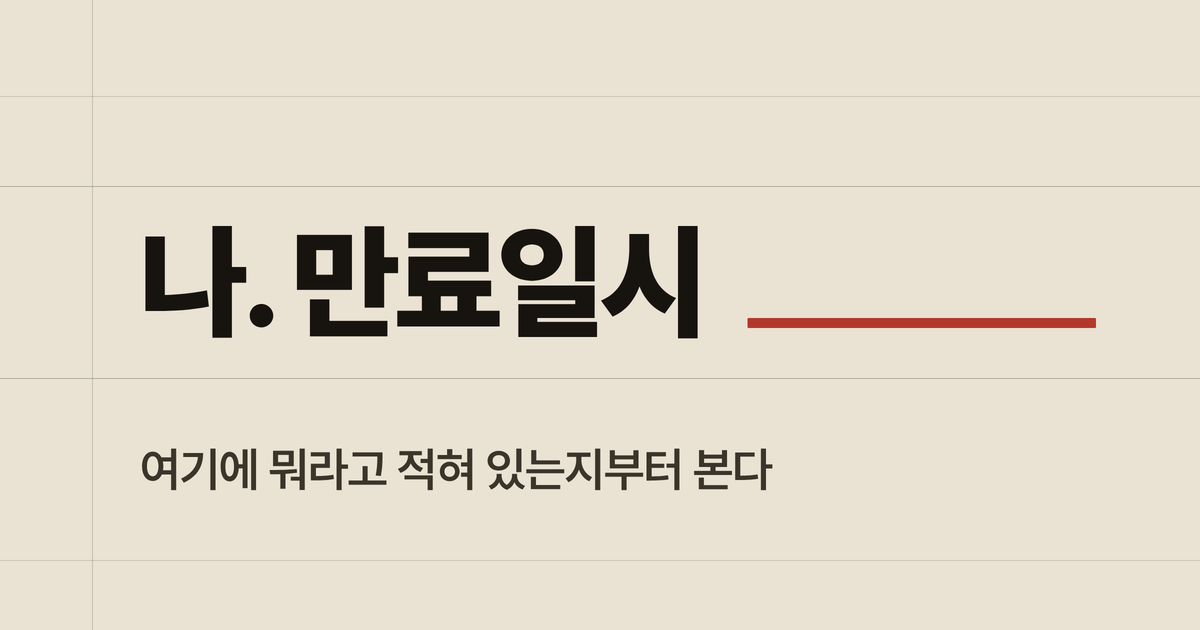
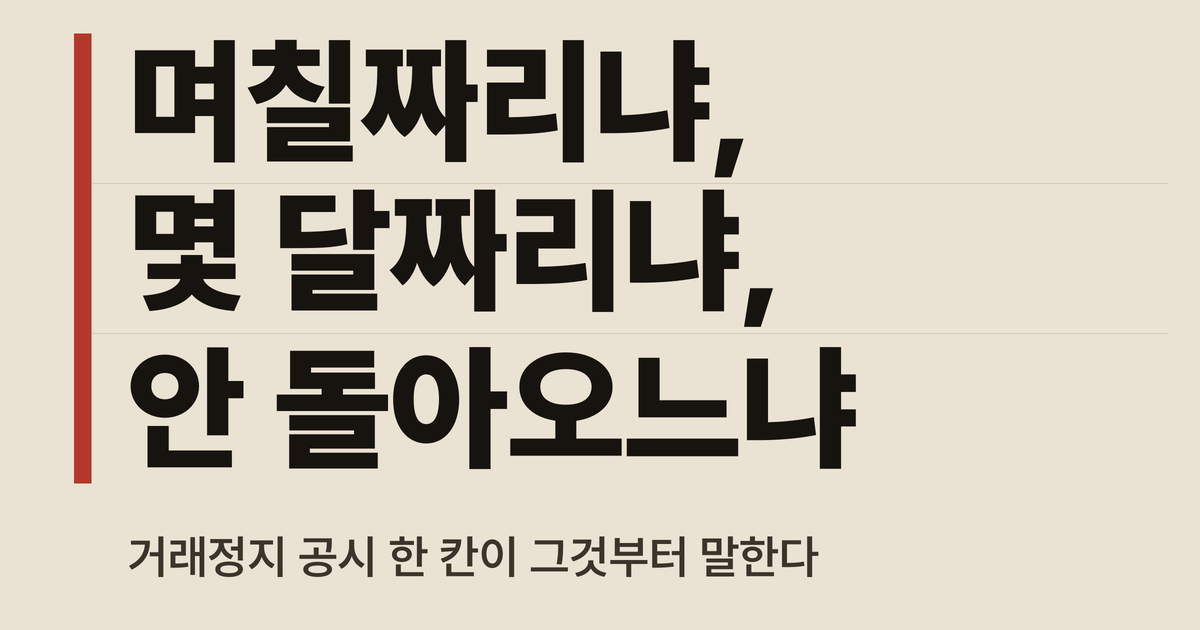
Second thumbnail: three lines for three outcomes
The first card failed because two words sat side by side on one line and
closed up. So the copy breaks across three lines, one per outcome, which
removes the place where words could run together at all — a line break
is a layout fact rather than a few pixels, so it survives any amount of
shrinking, which a period does not.

The longest line is seven characters, so height rather than width sets
the limit and the type ends up larger than before despite three times
the copy. Read back at thumbnail size by magnifying the remaining pixels
rather than guessing: all three lines are legible at the smallest size
tested, and the gaps between words measure five pixels where the failed
card had one.

The red bar changes job from pointing at an empty field, which no longer
exists in the copy, to bracketing the three lines as one set. It does
not single out any of them, since choosing is what the filing does.

A new check goes into the production notes: not whether the text is
visible, but what it says when the letters run together. That is the
question the first round never asked.

Claude-Session: https://claude.ai/code/session_01Q2phF8jfFGCqbh6nMM2kyu

Changed region(s): [[0.0617, 0.0302, 0.925, 0.7841], [0.0925, 0.8444, 0.6783, 0.9349]]

diff --git a/작업/20260919_거래정지/06_지면.md b/작업/20260919_거래정지/06_지면.md
@@ -129,3 +129,238 @@
 - **본문에 없는 것을 그리지 않았다.** 날짜·숫자·재개일을 이미지가 약속하지 않는다
 - **메타 설명·대체 텍스트(alt)를 쓰지 않았다.** 그것은 본문을 줄여 쓰는 일이고 ⑦에서 정할 자리다
 - **공정을 세우지 않았다**(§12). 대안 문구는 반려 사유가 아니라 **선택의 근거**로 적었다. 되돌린 것 0건
+
+---
+---
+
+# ⑥c-2 재제작 — 회장 반려 뒤 다시 세운 판
+
+「지면」 · 2026-09-20 KST · **위 §1~§7은 반려된 1판의 기록이다. 한 줄도 안 지웠다.**
+대상 문구: `06_제목.md` **§14-5 ㉮**(「포착」 재작성분) · 대조한 본문: `05_원고.md` **1~374행**
+[수취] 서명은 `00_공정일지.md` 맨 끝 — **받음**
+산출: `작업/20260919_거래정지/06_썸네일.png` (1200×630, **덮어썼다**)
+
+---
+
+## 8. 무엇이 반려됐고, 내 책임이 어디까지인가
+
+회장 원문 — ***"나 만류일 씨가 썸네일이야? 뭐가 이렇게 엉성해?"***
+
+1판 대문은 `나. 만료일시`(124px Black)였다. **`나`와 `만료일시` 사이의 마침표가 제 몫을 못 했고, 한국어를 읽는 눈이 그 일곱 자를 「나, 만류일」이라는 자기소개로 끊었다.** 「포착」이 `06_제목.md` §14-1에 자기 잘못으로 적었다 — *"「지면」은 내가 준 글자를 한 자도 안 고치고 세웠다."*
+
+**그 말이 맞다. 그리고 그것이 내 면책은 아니다.**
+
+문구를 고칠 권한이 나에게 없는 것은 맞다(`운영/02_조직도.md`). **그런데 「이 문구로는 썸네일이 안 나온다」고 되돌릴 권한은 나에게 있었다.** 나는 §6에서 손톱 크기 검사를 했고, *"140px — `나. 만료일시` 읽힌다"*까지 적었다. **거기서 멈춘 것이 내 잘못이다.**
+
+> **내가 검사한 것은 「글자가 보이는가」였다. 검사했어야 하는 것은 「무슨 말로 읽히는가」였다.**
+
+보이는 것과 읽히는 것은 다르다. 1판의 일곱 자는 **끝까지 또렷하게 보였고, 또렷하게 다른 말로 읽혔다.** 판독 검사에 **「붙여 읽으면 무엇이 되는가」가 없었다** — 그 칸을 이번에 §12로 새로 넣었다.
+
+**받침 하나 더.** 1판을 만들 때 나는 대문 7자가 짧은 것을 **장점**으로만 봤다(§2 — *"7자뿐이라 크게 세울 수 있다"*). **짧으면 옆 글자에 붙을 기회도 많아진다**는 것을 안 봤다. 글자 수는 판독의 근거가 되지만 **혼자서는 근거가 못 된다.**
+
+---
+
+## 9. 받은 문구와 내가 정한 것 — 경계
+
+**「포착」이 준 것**(§14-7). 글자는 한 자도 안 고쳤다.
+
+```
+[대문]  며칠짜리냐, 몇 달짜리냐, 안 돌아오느냐
+[받침]  거래정지 공시 한 칸이 그것부터 말한다
+```
+
+**「포착」이 명시적으로 나에게 넘긴 것 둘**, 그리고 내가 정한 것.
+
+| 넘어온 결정 | 내 결정 | 근거 |
+|---|---|---|
+| **개행 위치** — *"위 대문은 뜻 덩어리 표시이지 개행 지시가 아니다"* | **세 줄. 갈래 하나에 한 줄씩** | §10 |
+| **붉은 빈 기입란을 살릴지 바꿀지 뺄지** — *"새 문구에는 가리킬 기입란이 없다"* | **뺐다. 같은 붉은색을 「세 줄을 묶는 괄호」로 바꿨다** | §11 |
+
+**글자는 22자(대문)+19자(받침).** 1판 대문 7자의 3배다. 마침표·쉼표·띄어쓰기를 포함해 **받은 글자 그대로**이고, 내가 한 것은 **원래 있던 쉼표 뒤 공백 두 곳을 줄바꿈으로 바꾼 것**뿐이다. 글자를 빼지도 더하지도 않았다.
+
+**쉼표를 안 지웠다.** 줄 끝에 쉼표가 남는 것이 어색해 보일 수 있지만 **그것을 지우는 것은 문구를 고치는 것**이다. 줄 끝 쉼표는 「아직 안 끝났다」를 지고 가서 세 줄을 한 묶음으로 만든다. 지울 이유도 없었다.
+
+---
+
+## 10. 왜 세 줄인가 — 이것이 반려의 직접적인 대응이다
+
+「포착」은 §14-6에서 이렇게 예상했다 — *"대문 두 줄이 띠로 보이되 줄 길이가 달라(11자/6자) 계단 모양이 남는다."* **두 줄이면 `며칠짜리냐, 몇 달짜리냐,`가 한 줄에 11자로 붙는다.**
+
+**나는 세 줄로 갈랐다. 이유 셋.**
+
+**① 반려의 원인이 「가로로 붙는 것」이었다.** `나`와 `만료일시`가 한 줄에 나란히 있어서 붙어 읽혔다. **한 줄에 갈래 둘을 얹으면 그 구조가 그대로 돌아온다** — `몇 달짜리냐`가 `며칠짜리냐` 뒤에 붙어 읽힐 자리가 생긴다. **줄을 나누면 가로 인접 자체가 없어진다.** 쉼표가 지고 있던 구분 일을 **줄바꿈이 대신 진다.** 점 하나에 맡겼던 일을 줄 하나에 맡긴 것이고, 줄은 아무리 작아져도 안 사라진다.
+
+**② 한 줄에 최대 7자면 글자를 더 크게 세운다.** 11자 줄에 맞추면 폭이 먼저 차서 글자가 작아진다. 세 줄로 가르면 **가장 긴 줄이 `안 돌아오느냐` 7자**이고, 폭이 아니라 **높이가 한계**가 된다. 실측: 대문 **135px**(1판 124px보다 **11px 크다**). **문구가 3배 길어졌는데 글자는 더 커졌다.**
+
+**③ 세 줄이 곧 세 갈래다.** 제목이 *"세 갈래로 갈랐다"*고 말한다. 썸네일에 덩어리가 **정확히 세 개** 쌓여 있으면, 글자를 다 못 읽어도 **셋이라는 것이 형태로 먼저 간다.** 「포착」이 기대한 계단은 두 줄로는 안 나오고 세 줄로 나온다. 오른쪽 끝도 5.3 → 5.6 → 6.3em으로 조금씩 길어져 **아래로 갈수록 무거워진다** — 며칠 → 몇 달 → 안 돌아옴이라는 순서 그대로다.
+
+**받침을 위로 올리지 않았다.** 위에 얹으면 주제어 「거래정지」가 먼저 오니 낫지 않겠나 검토했는데, **받침의 「그것」이 대문을 받는 말**이다. 위에 놓으면 가리킬 것이 없는 지시어가 된다 — **1판에서 `나.`가 가리킬 문서 없이 떠 있던 것과 같은 사고**다. 순서는 「포착」이 준 그대로 둔다.
+
+---
+
+## 11. 붉은 기입란을 어떻게 처리했나
+
+「포착」이 넘긴 그대로 **뺐다.** 1판의 붉은 가로 막대는 **「만료일시 칸이 비어 있다」를 가리키는 도형**이었고, 새 문구에는 만료일시 칸이 없다. 남겨두면 **가리킬 것이 없는 장식**이 되고, 그건 내 금지 목록 그대로다(*"읽을 수 없는 장식을 넣지 않는다"*).
+
+**같은 붉은색(#B3382C)은 살렸다. 다만 일을 바꿨다.**
+
+| | 1판 | 2판 |
+|---|---|---|
+| 모양 | 가로 막대, 글자 오른쪽 | **세로 막대, 세 줄 왼쪽 (폭 17px · 높이 450px)** |
+| 하는 일 | 「여기에 적힌다」 — **빈칸을 가리킨다** | 「이 셋이 한 묶음이다」 — **괄호로 묶는다** |
+| 세 줄 중 하나를 고르나 | — | **안 고른다** |
+
+**하나를 골라 표시하지 않은 것이 이 도형의 핵심이다.** 독자가 셋 중 어디인지는 내가 모르고, 본문도 미리 안 정해준다. 붉은 표시를 한 줄에만 찍으면 **이미지가 답을 정해버리고**, 그건 본문에 없는 것을 약속하는 것이다(§6 이탈률). 그래서 **셋 전부를 같은 높이로 묶기만 한다.** 받침이 *"공시 한 칸이 그것부터 말한다"*고 하니, **고르는 일은 공시가 한다** — 이미지는 고를 것이 셋이라는 것까지만 말한다.
+
+**세로 괘선 한 줄로 셋을 갈랐다.** 1판의 전폭 괘선 4줄(끝없는 서식)을 **세 행짜리 얕은 괘선 2줄**로 바꿨다. 농도는 12% — 원본 크기에서는 「서식의 행」이 보이고, 손톱 크기에서는 사라져서 글자와 안 싸운다. **작아지면 없어지는 요소는 작아질 때 방해도 안 한다.**
+
+---
+
+## 12. ★ 크기별 판독 검사 — 「보이는가」가 아니라 「뭐라고 읽히는가」
+
+**1판이 빠뜨린 칸이 이것이다.** 실물을 140·200·300·420px로 줄여 열었고, 140·200px는 **실제 남은 픽셀을 8배·5배로 확대(nearest)해 한 자씩** 봤다. 추정이 아니다.
+
+### 12-1. 각 크기에서 실제로 뭐라고 읽히는가
+
+| 크기 | 대문(135px → 환산) | **읽히는 말 — 그대로 옮긴다** | 받침(46px → 환산) |
+|---|---|---|---|
+| **140px** | **15.8px** | **`며칠짜리냐,` / `몇 달짜리냐,` / `안 돌아오느냐` — 세 줄 다 읽힌다.** 쉼표 둘 다 점으로 남아 있고 `몇`·`달` 사이, `안`·`돌` 사이 공백이 배경으로 뚫려 있다 | **5.4px — 못 읽는다.** 회색 띠 하나. 「글자가 한 줄 더 있다」까지만 전달된다 |
+| **200px** | **22.5px** | 세 줄 또렷. **글자 경계가 전부 떨어진다** | **7.7px — 덩어리로만.** 「거래정지」 네 자가 어렴풋하고 나머지는 못 읽는다 |
+| **300px** | **33.8px** | 또렷 | **11.5px — 읽힌다.** `거래정지 공시 한 칸이 그것부터 말한다` 끝까지 |
+| **420px** | **47.3px** | 또렷. 괘선 2줄이 이때부터 보이기 시작한다 | **16.1px — 편하게 읽힌다** |
+
+**흰 바탕·검은 바탕에 나란히 놓고도 봤다.** 종이색 #EAE2D2가 흰 검색 결과 배경에서 카드로 떨어지고, 어두운 바탕에서는 그대로 떠오른다. 붉은 세로 막대는 **140px에서도 붉은 획으로 남는다**(2px) — 안 보이는 장식이 아니다.
+
+**「포착」의 예상과 대조**(§14-6). *"200px부터 대문 또렷. 받침은 140px에서 뭉갠다"* — **받침은 맞았다. 대문은 내 쪽이 낫다: 140px에서 이미 또렷하다.** 두 줄 11자가 아니라 **세 줄 7자로 세웠기 때문**이다. 「포착」이 대비해둔 2순위 `호가창이 회색이다`(8자)는 **쓸 필요가 없다. 되돌리지 않는다.**
+
+### 12-2. 붙여 읽으면 다른 말이 되는가 — **안 된다**
+
+**이것이 반려의 직접 원인이라 실측으로 답한다.** 140px에서 각 줄의 「완전히 빈 세로 픽셀 열」을 셌다(붉은 막대와 글자 사이 간격은 뺐다).
+
+| 줄 | 140px에서 남은 낱말 사이 빈 열 | 붙어버리면 무슨 말이 되나 |
+|---|---|---|
+| `며칠짜리냐,` | 쉼표 앞 **2px**, 자간 1px씩 | 쉼표가 사라져도 `며칠짜리냐` — **뜻 그대로** |
+| `몇 달짜리냐,` | `몇`↔`달` **5px** | 붙으면 `몇달짜리냐` — **뜻 그대로.** 사람 이름 꼴 아님 |
+| `안 돌아오느냐` | `안`↔`돌` **3px** | 붙으면 `안돌아오느냐` — **뜻 그대로.** `돌아오느냐`가 누가 봐도 서술어라 이름으로 안 끊긴다 |
+
+**대조군 — 반려된 1판을 같은 조건으로 다시 재서 비교했다**(측정용으로만 그렸고 저장하지 않았다).
+
+```
+반려판  '나. 만료일시' @140px  →  '나'와 마침표 사이 빈 열 1px
+2판     '몇 달짜리냐,' @140px  →  '몇'과 '달' 사이 빈 열 5px   (5배)
+```
+
+**1px과 5px의 차이다.** 1판은 구분 일을 **마침표 하나(자획보다 작은 점)**에 맡겼고 그 점은 1px 틈 안에서 사라졌다. 2판은 같은 일을 **온전한 띄어쓰기(0.3em)와 줄바꿈**에 맡겼다. **줄바꿈은 픽셀이 아니라 배치라서 몇 배로 줄여도 안 없어진다.**
+
+**그리고 구조적으로 더 중요한 것.** 세 갈래가 **가로로 나란히 선 자리가 한 곳도 없다.** 1판 사고는 `나`와 `만료일시`가 한 줄에 있어서 일어났다. **줄이 다르면 붙어 읽을 수가 없다.** 낱말 하나하나가 붙는 경우까지 위에서 다 확인했으므로, **어느 조합으로 붙여 읽어도 다른 말이 안 나온다.**
+
+**항목 번호·기호 0개.** `가.`·`나.`·`3.` 같은 떠 있는 번호를 이미지에 한 개도 안 넣었다(「포착」 조건 ㉡). 이미지 안의 문장부호는 **쉼표 둘**뿐이고, 둘 다 **줄 끝**에 있어 뒷글자와 붙을 상대가 없다.
+
+### 12-3. 글자 깨짐
+
+**깨진 글자 0자.** 원본 크기로 열어 대문 22자·받침 19자를 한 자씩 대조했다. 두부(`□`)·자모 분리 없음. 쉼표 2개 모두 정상.
+
+---
+
+## 13. 22장 틀 — 네 요소를 각각 어떻게 피했나 (2판 기준으로 다시 적는다)
+
+`운영/06_기존글대장.md` 소진 목록: **남색 배경 + 노란 배지 + 흰 2줄 제목 + 노란 키워드**, 22장 전부 같은 틀.
+
+| 22장의 요소 | 2판 | 어떻게 피했나 |
+|---|---|---|
+| **① 남색 배경** | **종이색 #EAE2D2** | 남색을 다른 진한 색으로 바꾼 것이 아니라 **명암을 뒤집었다.** 22장은 어두운 바탕 + 밝은 글자, 이건 **밝은 바탕 + 먹빛 글자(#17130F)**다. 파랑 계열은 바탕·괘선·글자·막대 **어디에도 한 픽셀도 없다** |
+| **② 노란 배지** | **배지가 없다** | 모서리 알약·라벨·태그·리본을 **하나도 안 그렸다.** 「포착」이 배지용 단어를 안 뽑았고(§14-7) 나도 안 만들었다. 이미지 안 도형은 **붉은 세로 막대 1개 + 얕은 괘선 2줄**이 전부다 |
+| **③ 흰 2줄 제목** | **먹빛 · 크기가 다른 네 줄** | 색이 흰색이 아니다(#17130F / #3B342A). **줄 수가 2가 아니라 4**이고(대문 3 + 받침 1), 그 넷이 같은 급도 아니다 — **135px와 46px, 2.9배 차이.** 22장은 같은 크기 두 줄을 **가운데 몰아 쌓았고**, 이건 **왼쪽 한 선에 전부 물려 왼쪽으로 쏠려 있다** |
+| **④ 노란 키워드 강조** | **강조한 낱말이 0개** | 네 줄 전부 단색이다. **어느 글자에도 색을 안 넣었다.** 유일한 색(붉은 막대)은 **글자에 한 픽셀도 안 닿고**, 낱말이 아니라 **세 줄 묶음 전체**를 가리킨다. 그리고 그 색은 노랑이 아니라 벽돌빛이다 |
+
+**네 요소가 각각 없다.** 하나를 빼고 셋을 남기지 않았다. **1판에서 지킨 선을 2판도 그대로 지켰고, ③은 오히려 더 멀어졌다**(2줄 → 4줄, 2.6배 → 2.9배).
+
+---
+
+## 14. 직전 3편과 무엇이 다른가
+
+`운영/06_기존글대장.md` 발행일 역순 **직전 3편은 전부 9.18**이고, 셋 다 22장 틀이다.
+
+| 직전 | 글 | 그 썸네일 | 2판 |
+|---|---|---|---|
+| 1 | #22 유상증자 공시 | 남색 바탕 · 노란 배지 · 흰 2줄 · 노란 키워드 | **종이 바탕 · 배지 0 · 먹빛 4줄 · 색 강조 0** |
+| 2 | #20 환율과 내 지갑 | 같음 | 같음 |
+| 3 | H 상황별 안내(허브) | 같음 | 같음 |
+
+규칙이 짚은 세 가지를 따로 댄다(*배경 처리·글자 배치·색 계열이 겹치면 안 된다*).
+
+- **배경 처리** — 직전 3편은 **평평한 단색 남색 판**이다. 2판은 **얕은 괘선이 지나가는 종이면**이다. 바탕에 구조가 있다
+- **글자 배치** — 직전 3편은 화면 **정중앙에 두 줄을 쌓는다**. 2판은 **왼쪽 한 선에 네 줄을 전부 물리고 오른쪽 4할을 비운다.** 무게가 왼쪽 아래로 쏠려 있다
+- **색 계열** — 남청 + 노랑(보색 대비)에서 **웜 그레이 종이 + 벽돌빛 한 줄**로 갔다. 계열이 안 겹친다
+
+**22장 전체와도 다시 대조했다. 종이색 바탕을 쓴 썸네일이 한 장도 없다.**
+
+### 그리고 1판과 무엇이 다른가 — 되돌리는 김에 판도 갈았다
+
+반려된 것은 문구였고 「포착」은 판을 *"나쁘지 않았다"*고 했다. **그래도 판을 그대로 쓰지 않았다.** 문구가 「서식의 한 칸」에서 「세 갈래 질문」으로 바뀌었으면 **판이 하는 말도 바뀌어야 한다.**
+
+| | 1판(반려) | 2판 |
+|---|---|---|
+| 구조 | **전폭 괘선 4줄 + 세로 괘선 1줄** — 끝없는 서식 | **얕은 괘선 2줄로 가른 세 행** — 셋짜리 목록 |
+| 대문 | 1줄 7자 · 124px | **3줄 각 5~7자 · 135px** |
+| 줄 수 | 2 | **4** |
+| 붉은색 | 가로 막대 — **빈칸을 가리킨다** | 세로 막대 — **세 줄을 묶는다** |
+| 강조 방식 | 괘선 농도 차(가운데 행만 진하게) | **줄 수와 크기 차.** 농도 강조 버렸다 |
+
+**바꾸지 않은 것: 종이색·먹빛·왼쪽 정렬·벽돌빛 한 점.** 22장에서 멀어지게 해준 것이 그 넷이고, 반려 사유가 아니었다. **고칠 이유가 없는 것까지 고치면 왜 고쳤는지를 못 적는다.**
+
+---
+
+## 15. 무엇으로 만들었나
+
+| | |
+|---|---|
+| **크기** | **1200×630** (티스토리 본문·오픈그래프·검색 결과 공용). **2400×1260으로 그린 뒤 Lanczos로 줄여** 글자 가장자리를 살렸다. **82KB** |
+| **도구** | **Pillow 단독.** 1판은 Chromium 헤드리스로 떴는데 2판은 도형이 3개뿐이라 HTML을 거칠 이유가 없었다. **`playwright install` 실행 안 했다** |
+| **폰트** | **Pretendard 1.3.9** — 대문 Black 135px · 받침 SemiBold 46px. 지난번 받아둔 것을 그대로 썼다(새로 안 받았다) |
+| **폰트 라이선스** | **SIL Open Font License 1.1** (`package.json` → `"license": "OFL-1.1"`). 배포본 README — *"글꼴 단독 판매를 제외한 모든 상업적 행위 및 수정, 재배포가 가능합니다."* **수익형 블로그 이미지에 넣어도 되는 조건이고, 임베딩 제한 조항이 없다** |
+| **가져온 이미지** | **없다.** 화면에 있는 것은 **사각형 3개(붉은 막대 1 + 괘선 2)와 글자 네 줄**이 전부이고 전부 내가 그렸다. 사진·아이콘·스크린샷·남의 화면 캡처 **0건**(`운영/03_운영규칙.md` §6) |
+
+**색 실측 — 명도 차.** 종이 #EAE2D2 / 먹 #17130F / 받침 #3B342A. 대문은 바탕과 거의 최대 대비이고, 받침도 손톱 크기에서만 뭉갤 뿐 300px 이상에서 편하게 읽힌다.
+
+---
+
+## 16. 본문과 대조 — 이미지가 약속하는 것
+
+**대문 세 덩어리는 `05_원고.md` 7행·25행에 그대로 있다** — *"다음 달 12일 / 1년을 넘게 / 돌아오지 않는다"*(7행), *"며칠짜리·몇 달짜리·안 돌아오는 것 셋 중 하나"*(25행).
+**받침의 「공시 한 칸」은 44행이다** — *"읽어야 할 곳은 「3. 정지기간」의 「나. 만료일시」 한 칸이다."*
+
+**이미지가 날짜를 약속하지 않는다.** 숫자가 한 자도 없고, 「언제 풀린다」는 말이 없다. 약속하는 것은 **「셋 중 어느 쪽인지는 갈라진다」**뿐이고, 그것이 본문 25행의 주장 그대로다. **187건짜리 둘째 갈래 독자**(끝까지 날짜가 없는 사람)가 눌러도 이미지가 먼저 한 말과 본문이 어긋나지 않는다.
+
+**금지어 0건.** `운영/03_운영규칙.md` §5 네 묶음(시간 핑계 · 회피 `~할 수도 있습니다` · `~로 알려져 있습니다`/`~하시기 바랍니다` · 3인칭 개시·가르치는 어조) 전부 대조했다. 이미지 안 글자 41자에 해당 없음. **물음표 문자 0개**(소진 목록의 물음표 종결 회피) — `~냐`는 독자에게 던지는 질문이 아니라 **선택지 나열**이다.
+
+---
+
+## 17. 거부권을 쓰는가 — **안 쓴다**
+
+「포착」이 대비해둔 2순위(`호가창이 회색이다`, 8자)는 *"「지면」이 ㉮ 대문을 세워보고 140px에서 뭉갠다고 판정하면"* 쓰는 안이었다.
+
+**세워봤고, 140px에서 세 줄 다 읽힌다**(§12-1). **뭉개지 않는다. 되돌리지 않는다.**
+
+**되돌릴 뻔한 자리도 적어둔다.** 「포착」이 적은 두 줄 배치(11자/6자)를 그대로 따랐으면 폭이 먼저 차서 글자가 110px대로 내려가고, 140px에서 대문이 띠가 됐을 것이다. **그 경우엔 되돌렸어야 했다.** 되돌리지 않은 것은 문구가 좋아서가 아니라 **개행을 내가 정할 수 있었기 때문**이다 — 「포착」이 개행을 안 넘겼으면 이 건은 한 번 더 왕복했다. **형태를 안 지정한 것이 왕복 한 번을 줄였다**(`운영/03_운영규칙.md` §1).
+
+---
+
+## 18. 이번에 내가 하지 않은 것
+
+- **문구를 안 고쳤다.** 쉼표 2개·띄어쓰기 2개 전부 그대로다. **뺀 글자 0자, 더한 글자 0자.** 한 것은 원래 있던 공백 두 곳을 줄바꿈으로 바꾼 것뿐이고, 그건 「포착」이 나에게 넘긴 결정이다(§14-7)
+- **글자를 더 안 넣었다.** 이미지 안 글자는 받은 두 덩어리뿐이다. 로고·날짜·출처·URL·블로그 이름 **0**
+- **본문을 안 썼고 제목을 새로 안 지었다.** `05_원고.md`·`06_제목.md`를 읽기로만 열었다
+- **메타 설명과 alt를 안 건드렸다.** alt는 **새 이미지를 보고 「포착」이 다시 쓴다**(§14-6). 내가 미리 쓰면 또 확인 자리가 하나 줄어든다
+- **본문에 없는 것을 안 그렸다.** 날짜·숫자·재개일·종목명 0
+- **세 갈래 중 하나를 안 골랐다.** 붉은 표시를 한 줄에만 찍지 않았다(§11)
+- **§1~§7을 안 지웠다.** 반려된 판의 근거가 그대로 남아 있다. **틀린 판단이 기록으로 남아야 다음에 같은 자리를 안 밟는다**
+- **커밋·푸시 안 했다**
+
+---
+
+## 19. 한 줄
+
+**1판에서 나는 「보이는가」를 검사하고 「읽히는가」를 검사했다고 적었다. 그 둘이 다르다는 것을 회장이 일곱 자로 알려줬다.**
+
+그래서 이번 검사에는 칸이 하나 늘었다 — **「붙여 읽으면 무슨 말이 되는가」.** 1판의 구분은 **마침표 하나(140px에서 1px)**가 지고 있었고, 2판의 구분은 **줄바꿈**이 진다. **점은 작아지면 사라지고, 줄은 작아져도 줄이다.**

diff --git a/작업/20260919_거래정지/00_공정일지.md b/작업/20260919_거래정지/00_공정일지.md
@@ -3500,3 +3500,146 @@ git show --name-only --format="" be4a1b6
 **반려 누계 갱신 — ⑥b 「포착」 0회 → 1회**(회장 반려). ⑥c 「지면」은 **0회 유지** — 「지면」은 반려 대상이 아니다.
 
 **「포착」 — 09-20. 썸네일 이미지를 원본 크기로 직접 열었고, §14를 새로 썼고, §5·§10에 반려·무효 표시만 달았다. 제목·메타 설명·본문을 안 고쳤고, 썸네일 형태를 지정하지 않았고, alt를 미리 쓰지 않았고, 이미지를 다시 뽑지 않았고, 커밋·푸시하지 않았다.**
+
+---
+
+## ⑥c-2 썸네일 재제작 — 「지면」 (09-20)
+
+**[수취] 「지면」 — 받음.** `06_제목.md` §14-5 ㉮의 새 문구를 글자 수로 세고(대문 22자·받침 19자, 앞 판 `나. 만료일시` 7자보다 3배), 본문과 한 줄씩 대조했다 — 대문 세 덩어리는 `05_원고.md` **7행·25행**에 그대로 있고(`며칠짜리·몇 달짜리·안 돌아오는 것`), 받침의 「공시 한 칸」은 **44행**(`읽어야 할 곳은 「3. 정지기간」의 「나. 만료일시」 한 칸이다`)이 대는 말이다. **본문에 없는 것을 약속하는 자리 0곳.** 반려된 `06_썸네일.png`도 원본 크기로 직접 다시 열어 `나만료일시`로 붙는 것을 확인했다. 세울 수 있다 — **거부권 쓰지 않는다.**
+
+**[진행] 「지면」 — `06_썸네일.png` 재제작(덮어씀) · `06_지면.md` §8~§19 신설.**
+
+**개행은 내가 정했다 — 세 줄, 갈래 하나에 한 줄씩.** 「포착」이 적은 두 줄(11자/6자)을 따르지 않았다. **반려의 원인이 「한 줄 안에서 가로로 붙는 것」이었기 때문이다.** 줄을 나누면 갈래끼리 가로로 인접할 자리가 없어지고, 쉼표가 지던 구분 일을 **줄바꿈이 진다.** 부수 효과로 가장 긴 줄이 7자가 되어 대문이 **135px**로 커졌다 — **1판 124px보다 11px 크다. 문구가 3배 길어졌는데 글자는 더 커졌다.**
+
+**붉은 기입란은 뺐다.** 가리킬 칸이 없어졌으므로 남기면 장식이다. **같은 붉은색을 세로 막대로 바꿔 세 줄을 묶는 괄호로 썼다.** 셋 중 하나를 골라 표시하지 않았다 — **고르는 일은 공시가 한다**는 것이 받침의 말이고, 이미지가 먼저 고르면 본문에 없는 것을 약속하는 것이다.
+
+**★ 판독 검사에 칸을 하나 늘렸다 — 「붙여 읽으면 무슨 말이 되는가」.** 1판에 없던 칸이고, 없어서 반려됐다. 140·200·300·420px로 줄여 열었고 140·200px는 **남은 픽셀을 확대해 한 자씩** 봤다. **140px에서 대문 세 줄 다 읽힌다**(`며칠짜리냐, / 몇 달짜리냐, / 안 돌아오느냐`). 받침은 140·200px에서 뭉개고 300px부터 읽힌다. **낱말 사이 빈 열 실측 — 반려판 `나`↔마침표 1px, 2판 `몇`↔`달` 5px·`안`↔`돌` 3px.** 공백이 다 사라져도 `몇달짜리냐`·`안돌아오느냐`로 **뜻이 그대로**이고 이름 꼴이 안 나온다. **항목 번호 0개, 줄 끝 쉼표 2개 외 문장부호 없음.**
+
+**거부권 안 쓴다.** 「포착」 2순위(`호가창이 회색이다`)는 *"140px에서 뭉개면"*이 조건이었고 **안 뭉갠다. 되돌리지 않는다.**
+
+**22장 네 요소 — ① 남색→종이색 #EAE2D2(파랑 0픽셀) ② 배지 도형 0개 ③ 흰 2줄→먹빛 4줄·2.9배 크기 차·좌측 쏠림 ④ 색 강조 낱말 0개(유일한 색은 글자에 안 닿는다).** 직전 3편(9.18, 전부 22장 틀)과 배경 처리·글자 배치·색 계열 셋 다 안 겹친다. **금지어 0건. 가져온 이미지 0건**(사각형 3개+글자 네 줄, 전부 내가 그렸다. Pretendard OFL-1.1).
+
+**「지면」 — 09-20. 반려된 이미지를 원본 크기로 직접 열었고, 개행과 붉은 도형을 내가 정했고, 네 크기로 줄여 눈으로 읽었고, 빈 열을 실측해 반려판과 대조했다. 문구를 한 자도 안 고쳤고, 본문·제목·메타 설명·alt를 안 건드렸고, §1~§7을 안 지웠고, 세 갈래 중 하나를 안 골랐고, `playwright install`을 안 돌렸고, 커밋·푸시하지 않았다.**
+
+---
+
+## 3호 상의 — 「고문」 (09-20, 4층 · §11 상의 의무)
+
+**안건.** 회장이 완성된 글에 둘을 물었다 — *"클릭해서 볼 것 같아?"* · *"목적이 뭐야, 뭘 말하려는 건지 모르겠다."* 사장이 ⑧ 발행 결정을 되돌리려 한다.
+
+**대전제 — 이 안건이 걸리는 자리.**
+`00_헌장.md` **본질**(*"사람이 읽고 싶어 하는 글인가"*)이다. 회장의 두 질문은 서로 다른 층이다 — **「클릭」은 제목·썸네일·메타가 하고, 「목적이 안 보인다」는 첫 화면이 한다. 둘 다 본문 33,852자 전체의 문제가 아니다.**
+**시간** — `05_현황.md` 기준 **오늘이 30일 중 2일차. 발행 0편. 21일차(10.10) 분기점까지 20일.** 이 한 편에 이미 이틀이 들었다.
+
+---
+
+### (A) 사장의 진단 — **절반 맞다. 두 곳이 과하다.**
+
+**맞는 곳 — 진열창 세 칸이 서로 다른 방향을 본다.**
+제목은 *우리가 한 일*(445건을 열어 갈랐다), 썸네일은 *독자의 질문*(며칠짜리냐), 메타는 *칸 이름*(나. 만료일시)이다. 「포착」은 §14-5 ㉢에서 **셋이 각각 다른 것을 말해야 한다**고 적었다. **그것이 틀렸다.** 한 화면에 나란히 뜨는 세 칸은 다른 말을 하는 자리가 아니라 **같은 약속을 세 번 하는 자리**다. 셋이 다른 약속을 하면 독자는 무엇을 얻는지 모른 채 지나간다. **회장이 「목적이 뭐야」라고 물은 상태가 정확히 그것이다.**
+그리고 「포착」은 §14-2에서 자기 착오를 이미 이름 붙였다 — *"「정확한 것」과 「읽히는 것」을 같은 것으로 놨다. 22편을 만든 그 착오다."* **그 잣대를 썸네일에만 댔고 제목에는 안 댔다.** `445건을 열어 갈랐다`는 정확하지만 독자의 욕구가 아니다. 같은 착오가 제목 칸에 그대로 남아 있다.
+
+**과한 곳 ① — *"본문 목적이 우리 조사의 증명으로 옮겨갔다"*는 근거가 모자란다.**
+사장이 든 숫자 셋 중 **독자 도구인 것이 둘이다.** 75건 21:54(예외 0건)는 *"날짜가 보이면 5번 칸으로 내려가라"*는 규칙을 독자가 믿을 근거이고, 1,056/63/**0**은 *"코스피면 이 제목이 아예 안 뜬다"*는 독자의 길이다. 순수 증명용은 179건 내역(115/35/29) 정도이고 그것은 몇백 자다. **몇백 자를 근거로 33,852자의 목적을 재판정할 수는 없다.**
+
+**과한 곳 ② — 「원인 ②의 재발」이라는 이름이 틀렸다. 이름이 틀리면 못 고친다.**
+22편에는 사람이 **0명**이었다. 이 글에는 **14명이 오타째로** 있고(`저는어떻게`·`금욜에`), 못 한 것을 못 했다고 적은 자리가 **열 곳 가까이** 있다. `04_사후분석.md` 원인 ②의 정의는 *"체험·후기가 없는 정보 모음형"*이고, 이 글은 그 정의에 안 걸린다. **재발이 아니라 새 실패다.**
+
+**새 실패의 이름 — 「약속은 30초, 이행은 20분」.**
+본문 25행이 직접 약속한다 — *"어느 쪽인지는 지금 그 화면에 떠 있는 공시 제목 **한 줄**이 이미 말하고 있다."* 그리고 그 한 줄을 읽는 법에 **8,378자**를 쓴다. 독자가 자기 갈래에 닿기까지 10,200자, 약 20분. **목적이 옮겨간 것이 아니라 첫 문단이 선언한 목적이 본문 구조에 의해 지연되고 있다.** 이것이 회장의 두 번째 질문에 대한 답이다.
+
+**「데스크」가 틀린 곳 — 판정서 §7-㉠ 한 대목이다.**
+*"목차 대신 갈림 장치를 놓았다… 자기 절을 바로 집는다."* **목차는 건너뛰게 하는 장치이고 갈림 장치는 통과하게 하는 장치다. 대체 관계가 아니라 반대 관계다.** 「데스크」 자신이 §3에서 노린 독자는 *"자기 돈이 묶여서 공포 상태로 검색하는 사람"*인데, 그 사람이 20분을 통과한다는 근거를 한 줄도 대지 않았다. **다만 이 오류가 고치는 것은 첫 화면이지 본문 전체가 아니다. 통과 판정 자체는 뒤집지 않는다** — 「데스크」가 댄 이기는 대목 넷(G1의 모순 자리 · 숫자 없는 자리 · 돈 이야기 0개 · 사람 0명)은 그대로 서 있다.
+
+---
+
+### (B) 고치는 방법 — **1번. 단 범위를 못박는다. ⑤로 되돌리지 않는다.**
+
+> **고른 것: 「제목·메타·본문 첫 화면」 셋을 같은 약속으로 맞추고, ⑥c가 본문에 공시 화면 실물을 넣는다. 오늘 안에 발행한다.**
+> 되돌아가는 자리는 **⑥b(포착)와 ⑥c(지면)**다. **⑤는 안 연다. 본문 본체는 안 고친다.**
+
+**왜 2·3·4가 아닌가.**
+- **2(분량 감축) 기각** — 줄이기의 진짜 비용은 분량이 아니라 **차별점**이다. 10,200자를 3,000자로 줄이려면 갈림 장치를 해체해야 하고, 갈림 장치가 이 글이 옆 아홉 줄과 구별되는 유일한 것이다(「데스크」 §1·§10). 무기를 빼면 남는 것은 말뜻 설명 한 편이다. 그리고 하루가 더 든다 — **2일차 0편이 3일차 0편이 된다.**
+- **3(쪼개기) 기각** — `04_사후분석.md`가 **구조적 위험**으로 못박았다(13편 사건). 사장이 제안했고 사장이 위험을 계산에 안 넣었던 바로 그 구조다.
+- **4(그대로 발행 후 측정) 기각** — 유입이 사실상 0인 상태에서 이탈률은 **셀 수 있는 수가 안 나온다.** 「복기」에게 셀 것이 없다. 이것은 판정이 아니라 판정의 연기이고, `05_현황.md`/§5가 폐기한 *"시간이 해결한다"*에 걸린다.
+
+**1번에 반드시 붙이는 조건 둘.**
+1. **요약 박스를 되살리지 않는다.** 첫 화면에서 목적을 말하는 것과 22편의 「핵심요약 박스」는 다른 것이어야 한다. 같아지면 원인 ③ 재발이고 그때는 「데스크」가 반려해야 한다.
+2. **본문 공시 화면 실물 최소 1장.** *공시 읽는 법* 글인데 공시 화면이 한 번도 안 나온다. 독자가 할 일이 「자기 화면에서 칸 하나를 찾는 것」인데 그 화면을 못 봤다. **「지면」의 일이 썸네일 한 장으로 좁게 해석됐다** — `06_지면.md`는 처음부터 끝까지 썸네일 문서다. 본문 지면을 본 자리가 없다.
+
+**잃는 것 — 적는다.**
+- **33,852자·67분이 그대로 간다.** 회장의 첫 질문(*"볼 것 같아?"*) 중 **「보는가」(체류)에는 답하지 않고 「누르는가」에만 답하는 것**이다. 이탈률이 회장 의심대로 나오면 우리는 진열창만 고친 것이 된다.
+- 그 손실이 이 한 편에서 끝나지 않는다. **「데스크」의 분량 판정 기준(*"갈림 장치가 있으면 이 분량이 옳다"*)이 검증되지 않은 채 다음 글로 넘어간다.** → **「복기」에 이탈률과 「첫 화면 이탈」을 셀 수 있는 형태로 건다.** 그 숫자가 나오기 전에는 분량 상한을 규칙으로 만들지 않는다. **측정 없이 숫자를 정하는 것이 22편을 만든 방식이다.**
+- 그리고 ⑥b가 2회째 되돌림이 된다(썸네일 1회 + 이번 1회).
+
+**사장 결정:**
+
+---
+
+### (C) 공정 구멍 — **자리를 늘리지 않는다. 「데스크」 반려 목록에 한 항목을 더한다.**
+
+**§3-3과 §12는 부딪치지 않는다.** §3-3이 금지한 것은 **한 명이 여러 종류의 확인을 도맡는 것**(「검증」에게 ①②③⑤를 다 맡기는 것)이고, §10/§12가 경계한 것은 **라운드가 늘어 공정이 서는 것**이다. 서로 다른 말이다.
+
+**그런데 지금 필요한 것은 둘 중 어느 것도 아니다.** 「데스크」는 **이미 독자처럼 읽는 자리다** — 페르소나가 *"냉정하게 쳐내는 사람"*이고 판정서 §3이 실제로 검색 화면에 우리 줄을 놓고 봤다. 「데스크」가 안 한 것은 자리가 없어서가 아니라 **반려 일곱 항목에 그 항목이 없어서**다.
+
+> **더하는 한 항목 — 「독자가 자기 것을 찾기 전에 나가는가.」**
+> 「데스크」가 판정할 때 **자기 갈래·자기 답에 닿기까지 몇 자를 읽어야 하는지를 세어 적는다.** 숫자 상한은 두지 않는다 — 아직 잰 적이 없다.
+
+이것은 새 라운드를 만들지 않고(「데스크」는 이미 돈다), 새 서명을 만들지 않으며, 같은 자리의 같은 일(*"이 글이 기준 글을 이기는가"*)을 **첫 화면까지 내리는 것**이다.
+
+**「이방인」은 오늘 부르지 않는다.** 분기점은 **21일차(10.10)**이지 오늘이 아니다. 매 글마다 부르면 그것은 공정 자리가 되고 독립성이 죽는다.
+
+**자리 신설은 「복기」가 이탈률을 재고 나서 다시 본다.** 지금 자리를 만들면 헌장이 붙여둔 경고 그대로다 — *"조직도만 정교해지고 글은 그대로다."* **2일차, 발행 0편, 자리는 이미 열넷이다.**
+
+**잃는 것:** 「데스크」 한 자리에 판정 항목이 하나 더 얹힌다. 그 자리가 포화하면 §3-3이 경고한 *"한 명이 도맡는 순간 형식이 된다"*로 간다. **「감찰」이 볼 자리로 남긴다.**
+
+**사장 결정:**
+
+---
+
+### (D) ⑤ 반려 3회 규칙 — **회장 반려도 센다. 다만 이번 건은 ⑤ 반려가 아니다.**
+
+**선례가 이미 있다.** 이 일지에 *"반려 누계 갱신 — ⑥b 「포착」 0회 → 1회(**회장 반려**)"*로 적혀 있다. **회장이 되돌린 것도 반려로 센 것이 이 건 안에 있다.** 다르게 세면 그때그때 유리한 쪽으로 세는 것이 된다.
+
+**그러나 §12의 목적은 횟수가 아니다.** 조문이 스스로 적었다 — *"산출물이 바뀌지 않는 라운드는 헛돈 것이다."* **3회에서 끊는 이유는 헛돌기를 끊는 것이지 세 번을 벌하는 것이 아니다.** 그러므로 3회째가 왔을 때 「진행」이 사장·고문에게 올리는 절차는 그대로 두되, 올라온 자리에서 보는 것은 **매 라운드 산출물이 실제로 달라졌는가**다. 새 규칙이 아니라 §12가 이미 적어둔 것이다.
+
+**이번 건에 적용하면** — 내가 (B)에서 고른 것은 ⑤를 안 여는 것이다. 되돌아가는 자리는 **⑥b(2회째) · ⑥c(1회째)**. **⑤는 2회에서 멈춘다. §12 중지 미발동.**
+
+**잃는 것:** 「회장이 물으면 되돌린다」가 반려로 세어지므로, 앞으로 회장의 질문 한 번이 공정 지표를 움직인다. 그것이 싫어서 회장 지적을 반려로 안 세기 시작하면 **3회 규칙이 사장의 재량이 된다.** 세는 쪽을 택한다.
+
+**사장 결정:**
+
+---
+
+### (E) 회장 사안인가 — **아니다. 4층이다. 올리지 않는다.**
+
+다섯(전제 변경·목적 변경·목표 숫자와 기한·트랙 우선순위·사장의 거취) 어디에도 안 걸린다. 한 편의 제목·첫 화면·지면·분량 판정이다.
+
+**그리고 뒤집어 둔다 — 회장이 물었다고 해서 회장 사안이 되지 않는다.** 회장은 §11이 정한 세 가지 중 하나(**발행된 글**)를 받고 물었다. *"결과가 안 나오면 사장에게 묻는다"*는 헌장의 정상 동작이다. **묻는 쪽이 회장이고 답하는 쪽이 사장이다.** 여기서 사장이 *"어떻게 할까요"*를 되올리면 그것이 9.20에 다섯 번 물었던 바로 그 모양이고, §10이 생긴 이유다.
+
+**§12** — 회장 사안 판정은 **서로 다른 방법을 세 번 시도한 뒤**에 한다. **지금은 첫 번째다.**
+
+회장에게 갈 것은 결정 요청이 아니라 **답 한 줄**이다 — 무엇이 문제였고 오늘 무엇을 고쳐 올리는지. **경과 보고는 올리는 것이 아니다.**
+
+**사장 결정:**
+
+---
+
+### (F) 사장에게 지적한다 — 넷
+
+**㉠ 사장이 셌다. D-012 위반이다.**
+33,852자·67분·10,200자·이미지 0장을 누가 셌는가. **개수는 「진행」[형식]과 「실측」의 일이다.** 그리고 ⑧ 결정문에 이미 *"정정 1번 인계 메모 삭제 — **내가 했다.** `09_발행본.md` 신설"*이 적혀 있다.
+**그래서 글이 어떻게 되는가:** 사장이 세는 시간만큼 **다음 한 건이 ①에 안 던져진다.** 사장이 자기 결정문에 *"다음 한 건은 B트랙 재신청 조건 ①(#2/#12 통합)로 간다"*고 적어놓고 아직 안 던졌다. **2일차, 발행 0편, 21일차까지 20일.** 재신청 조건 ③은 신규 5편이고 지금 1편이 발행조차 안 됐다.
+
+**㉡ 같은 재료를 하루도 안 지나 다르게 읽었다.**
+⑧ 결정문 ㉣이 이것이다 — *"**분량이 크다.** 공백 제외 33,852자. 「데스크」가 선을 그었다. **그 선을 받는다.**"* **판단 재료가 없어서 못 정했던 것이 아니다. 같은 재료를 다르게 읽은 것이고, 그 사이에 달라진 것은 「회장이 물었다」 하나뿐이다.** 그것이 근거면 그건 판단이 아니라 반응이다.
+
+**㉢ 질문을 지시로 번역했다.**
+회장은 *"적절해?"*라고 물었지 *"다시 써"*라고 하지 않았다. 그런데 사장은 ⑤까지 되돌리는 안을 들고 왔다. 그것은 「데스크」 245행 판정과 「검증」 [사실] 서명과 ⑤ 반려 2회를 통째로 무효로 하는 것이다. **회장의 질문을 사장이 번역해서 공정에 내리면, 공정이 회장의 것이 된다.**
+
+**㉣ 「원인 ②의 재발」이라는 이름을 거둘 것.**
+(A)에 적었다. 재발이라고 부르면 다음 글이 무엇을 다르게 해야 하는지 아무도 모른다. **「약속은 30초, 이행은 20분」**으로 적어야 다음 「설계」가 고칠 수 있다.
+
+---
+
+**「고문」 — 09-20. 4층 안건 (A)(B)(C)(D)(E)에 각각 하나씩 골랐고 잃는 것을 적었다. 서명하지 않았고, 원고·제목·썸네일에 한 글자도 쓰지 않았고, 개수를 세지 않았고, 회장에게 직보하지 않았고, 「데스크」의 통과 판정을 뒤집지 않았고, 규칙을 새로 만들지 않았고, 커밋·푸시하지 않았다.**
